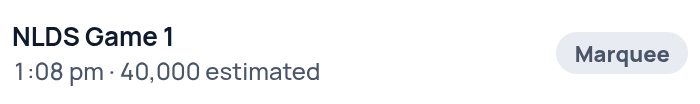
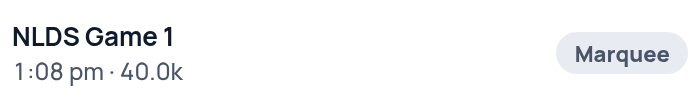
Tighten the map pills so they hug the name and crowd, and use the same 40.0k wording in the list.

Changed region(s): [[0.21, 0.6058, 0.48, 0.7788]]

diff --git a/src/map/CrowdLayer.tsx b/src/map/CrowdLayer.tsx
@@ -103,7 +103,6 @@ export function CrowdLayer({ points, selectedId, onSelect, insets }: Props) {
     }
     // Each label tries above, below, right and left of its dots and takes the first
     // spot that stays on screen (above the sheet) and doesn't cover another label or dot.
-    const LABEL_W = 176;
     const view = { w: map.getContainer().clientWidth, h: map.getContainer().clientHeight - insets.bottom };
     type Box = { x0: number; y0: number; x1: number; y1: number };
     const taken: Box[] = points.map((p) => {
@@ -130,6 +129,19 @@ export function CrowdLayer({ points, selectedId, onSelect, insets }: Props) {
         const id = (ev.target as HTMLElement).closest<HTMLElement>('.crowd-line')?.dataset.id;
         if (id) selectRef.current(id);
       });
+      // The pill is only as wide as its text. Measure it so the gap check matches.
+      el.style.position = 'fixed';
+      el.style.left = '0';
+      el.style.top = '0';
+      el.style.visibility = 'hidden';
+      document.body.appendChild(el);
+      const labelW = el.offsetWidth;
+      const labelH = el.offsetHeight;
+      document.body.removeChild(el);
+      el.style.position = '';
+      el.style.left = '';
+      el.style.top = '';
+      el.style.visibility = '';
       const lng = group.reduce((sum, p) => sum + p.location[0], 0) / group.length;
       const lat = group.reduce((sum, p) => sum + p.location[1], 0) / group.length;
       const at = map.project([lng, lat]);
@@ -138,14 +150,13 @@ export function CrowdLayer({ points, selectedId, onSelect, insets }: Props) {
       const gx1 = Math.max(...dots.map((d) => d.x));
       const gy0 = Math.min(...dots.map((d) => d.y));
       const gy1 = Math.max(...dots.map((d) => d.y));
-      const h = 10 + group.length * 19;
       // Offsets are measured from the label's anchor (the group's center), so a
       // label can sit clear of the outermost dot rather than on top of it.
       const options = [
-        { anchor: 'bottom', offset: [0, gy0 - at.y - 12], box: { x0: at.x - LABEL_W / 2, y0: gy0 - 12 - h, x1: at.x + LABEL_W / 2, y1: gy0 - 12 } },
-        { anchor: 'top', offset: [0, gy1 - at.y + 12], box: { x0: at.x - LABEL_W / 2, y0: gy1 + 12, x1: at.x + LABEL_W / 2, y1: gy1 + 12 + h } },
-        { anchor: 'left', offset: [gx1 - at.x + 14, 0], box: { x0: gx1 + 14, y0: at.y - h / 2, x1: gx1 + 14 + LABEL_W, y1: at.y + h / 2 } },
-        { anchor: 'right', offset: [gx0 - at.x - 14, 0], box: { x0: gx0 - 14 - LABEL_W, y0: at.y - h / 2, x1: gx0 - 14, y1: at.y + h / 2 } },
+        { anchor: 'bottom', offset: [0, gy0 - at.y - 12], box: { x0: at.x - labelW / 2, y0: gy0 - 12 - labelH, x1: at.x + labelW / 2, y1: gy0 - 12 } },
+        { anchor: 'top', offset: [0, gy1 - at.y + 12], box: { x0: at.x - labelW / 2, y0: gy1 + 12, x1: at.x + labelW / 2, y1: gy1 + 12 + labelH } },
+        { anchor: 'left', offset: [gx1 - at.x + 14, 0], box: { x0: gx1 + 14, y0: at.y - labelH / 2, x1: gx1 + 14 + labelW, y1: at.y + labelH / 2 } },
+        { anchor: 'right', offset: [gx0 - at.x - 14, 0], box: { x0: gx0 - 14 - labelW, y0: at.y - labelH / 2, x1: gx0 - 14, y1: at.y + labelH / 2 } },
       ] as const;
       const fits = (o: (typeof options)[number]) =>
         o.box.x0 >= 4 && o.box.x1 <= view.w - 4 && o.box.y0 >= insets.top && o.box.y1 <= view.h && !taken.some((t) => clash(o.box, t));

diff --git a/src/screens/MapScreen.tsx b/src/screens/MapScreen.tsx
@@ -4,7 +4,7 @@ import { areaMetros, DEFAULT_METRO, type Metro } from '../config/metros';
 import { feelsLikeF, getCityDate, getEventsBetween, getRatedDates, getUpcoming, type CityDate, type CrowdEvent } from '../data';
 import { BaseMap } from '../map/BaseMap';
 import { CrowdLayer } from '../map/CrowdLayer';
-import { crowdKind, crowdPoints } from '../map/crowdPoints';
+import { crowdPoints, crowdThousands } from '../map/crowdPoints';
 import { eventInBounds, MapSettle, type ViewBounds } from '../map/viewBounds';
 import { NightScore } from '../components/NightScore';
 import { WhenControl } from '../components/WhenControl';
@@ -243,8 +243,8 @@ export function MapScreen() {
           {legend && (
             <div className="legend-card" role="note">
               <b>Gold glow</b> marks where an event was. Wider means a bigger venue. Stronger means the known crowd filled more of it;
-              faint means no count found yet. <b>★</b> is the biggest known crowd that day. On the map a count is in
-              thousands, like 40.0k. The list says whether it is announced, reported or estimated.
+              faint means no count found yet. <b>★</b> is the biggest known crowd that day. A count reads in
+              thousands, like 40.0k. Sold out and no count yet stay in words.
             </div>
           )}
         </>
@@ -370,12 +370,12 @@ function AreaSwitcher({
   );
 }
 
-/** Fuller crowd wording for the sheet. The map uses thousands shorthand instead. */
+/** Same thousands shorthand as the map. Sold out and no count stay in words. */
 function crowdWords(event: CrowdEvent): string {
   const figure = event.crowd.find((c) => c.count !== undefined);
   const sold = event.crowd.some((c) => c.soldOut);
   if (figure?.count !== undefined) {
-    const words = `${figure.count.toLocaleString('en-US')} ${crowdKind(event)}`;
+    const words = crowdThousands(figure.count);
     return sold ? `${words} · sold out` : words;
   }
   return sold ? 'Sold out' : 'No count yet';

diff --git a/src/styles.css b/src/styles.css
@@ -1078,27 +1078,28 @@ button {
 .crowd-label {
   display: flex;
   flex-direction: column;
-  gap: 3px;
-  width: 176px;
-  padding: 4px 8px;
+  gap: 1px;
+  width: max-content;
+  max-width: 210px;
+  padding: 2px 6px;
   background: var(--card);
-  border-radius: 10px;
+  border-radius: 8px;
   box-shadow: 0 1px 4px rgba(15, 27, 45, 0.22);
   font-size: 12px;
-  line-height: 1.25;
+  line-height: 1.2;
 }
 
 .crowd-line {
   cursor: pointer;
-  border-radius: 6px;
+  border-radius: 4px;
   display: flex;
-  flex-wrap: wrap;
+  flex-wrap: nowrap;
   align-items: center;
-  gap: 2px 6px;
+  gap: 4px;
 }
 
 .crowd-name {
-  flex: 1;
+  flex: 0 1 auto;
   min-width: 0;
   font-weight: 800;
   color: var(--ink);
@@ -1109,7 +1110,7 @@ button {
 
 .tag-count {
   flex-shrink: 0;
-  font-size: 11px;
+  font-size: 12px;
   font-weight: 800;
   font-variant-numeric: tabular-nums;
   color: var(--ink2);

diff --git a/src/map/crowdPoints.ts b/src/map/crowdPoints.ts
@@ -68,8 +68,8 @@ export function crowdPoints(events: CrowdEvent[], date: string): CrowdPoint[] {
 }
 
 /**
- * Map labels only. Always thousands with one decimal: 40000 → "40.0k", 17500 → "17.5k".
- * The sheet and the event screen keep the full count.
+ * Thousands with one decimal: 40000 → "40.0k", 17500 → "17.5k".
+ * Used on the map and in the sheet. The event screen still spells the full count.
  */
 export function crowdThousands(count: number): string {
   return `${(count / 1000).toFixed(1)}k`;
